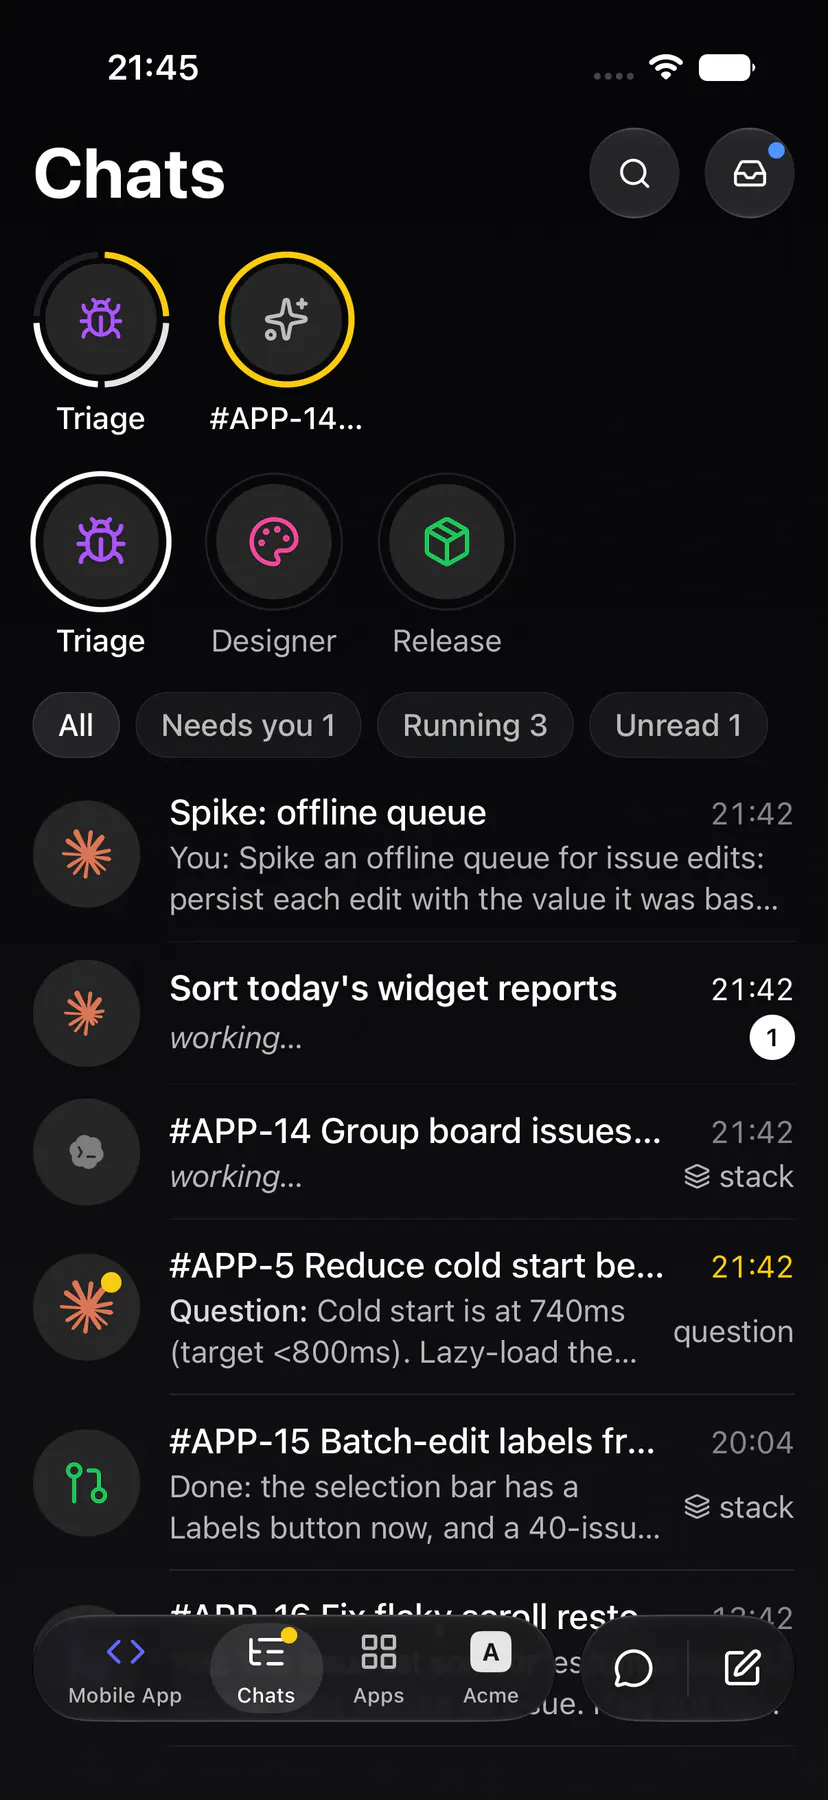
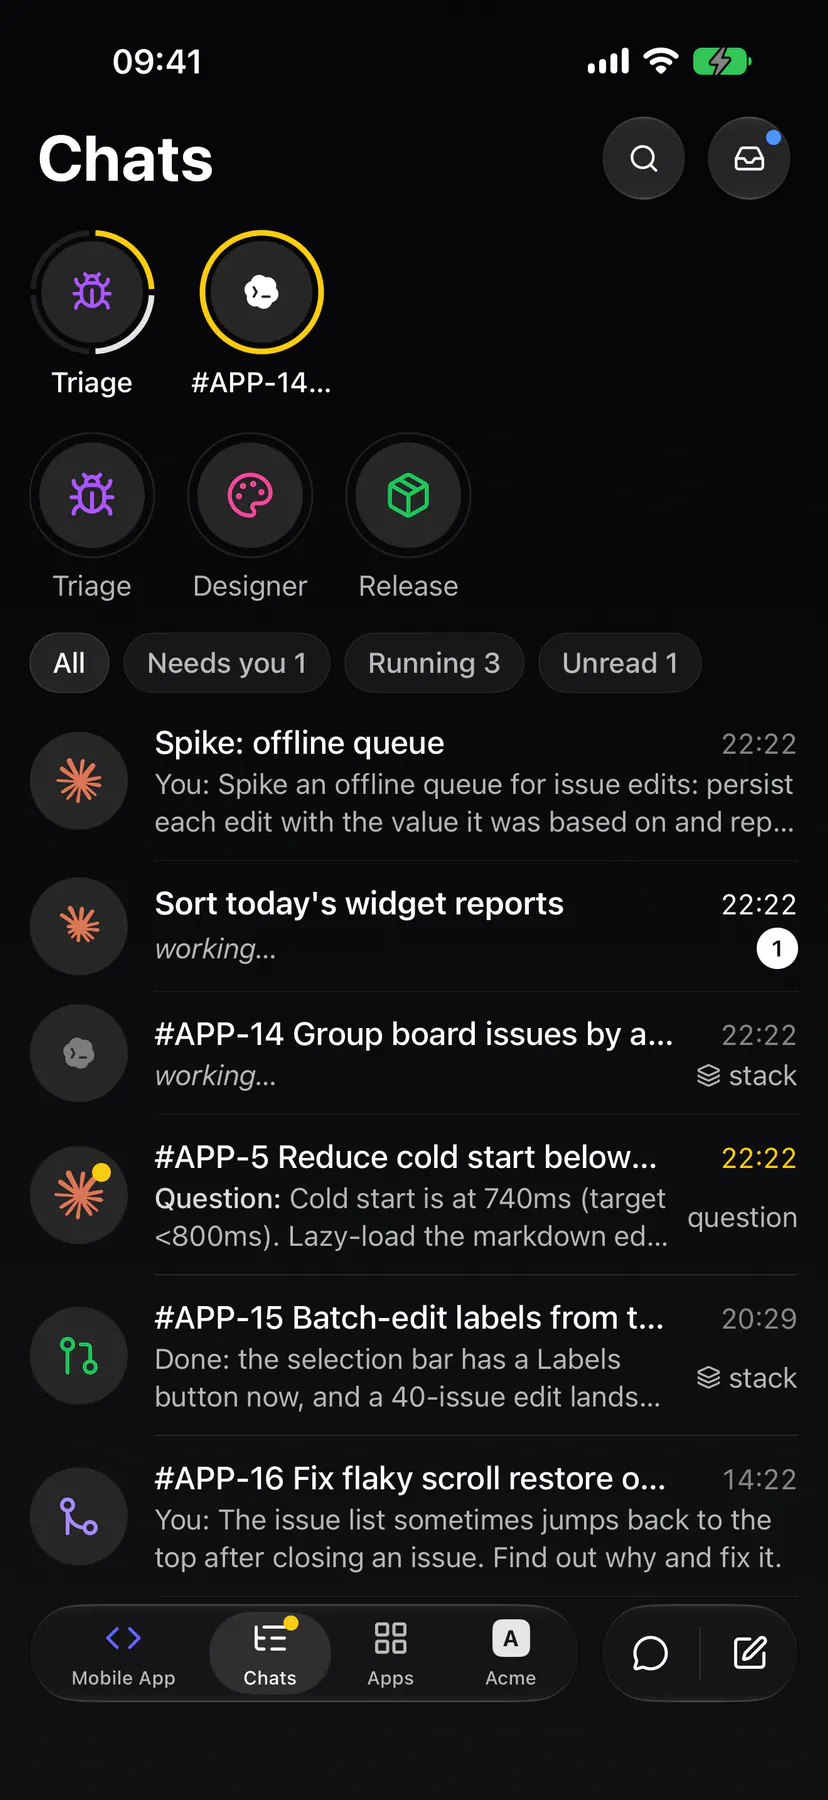
S-3 stories iOS: specimen chat rings run claude (specimen cli); shots story-ring, story-viewer, threads (ios)

Changed region(s): [[0.0302, 0.0311, 0.9662, 0.9644], [0.6944, 0.0, 0.9662, 0.1244], [0.0906, 0.9022, 0.2114, 0.9644]]

diff --git a/apps/ios/Exponential/UI/Components/ChatSpecimens.swift b/apps/ios/Exponential/UI/Components/ChatSpecimens.swift
@@ -551,6 +551,9 @@ struct StorySpecimensScreen: View {
         ),
     ]
 
+    /// The chat sessions' CLI (`specimen.input.sessions[].cli`).
+    private static let clis: [String: String] = ["board": "claude", "ship": "claude"]
+
     private static let agents: [(Stories.AgentInput, StoryRingAvatar)] = [
         (Stories.AgentInput(id: "a-triage", name: "Triage", assistant: false), .agent(icon: "bug", color: "#a855f7")),
         (Stories.AgentInput(id: "a-designer", name: "Designer", assistant: false), .agent(icon: "palette", color: "#ec4899")),
@@ -596,10 +599,11 @@ struct StorySpecimensScreen: View {
         messages.first { $0.id == storyId }?.card
     }
 
-    /// An agent ring = its icon in its colour; a chat ring = the bare brand mark.
+    /// An agent ring = its icon in its colour; a chat ring = the bare brand
+    /// mark of its root's CLI.
     static func avatar(_ ring: Stories.StoryRing) -> StoryRingAvatar {
         guard let agentId = ring.agentId, let avatar = agents.first(where: { $0.0.id == agentId })?.1 else {
-            return .chat(cli: nil)
+            return .chat(cli: ring.rootId.flatMap { clis[$0] })
         }
         guard case let .agent(icon, color) = avatar else { return avatar }
         return .agent(icon: BoardTypeDisplay.iconName(for: icon) ?? icon, color: color)
